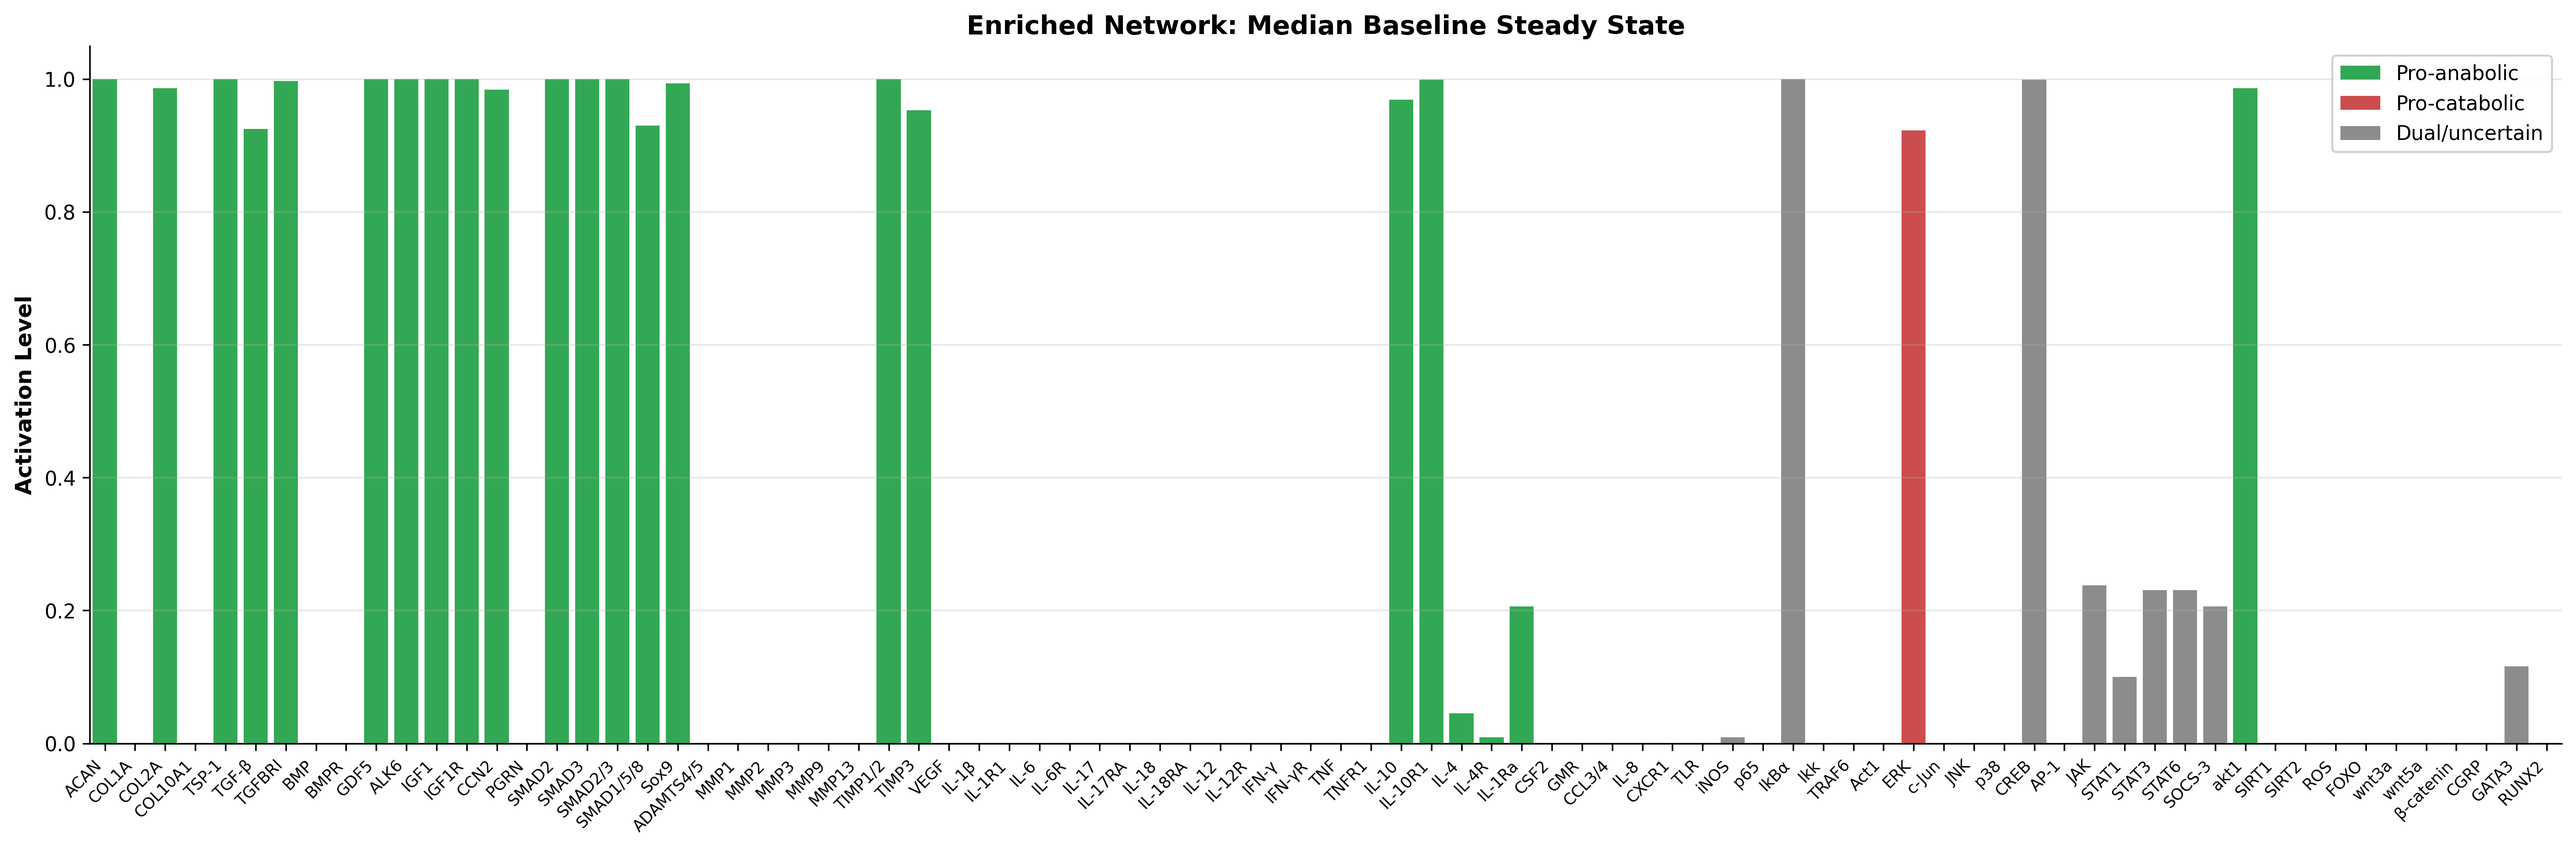
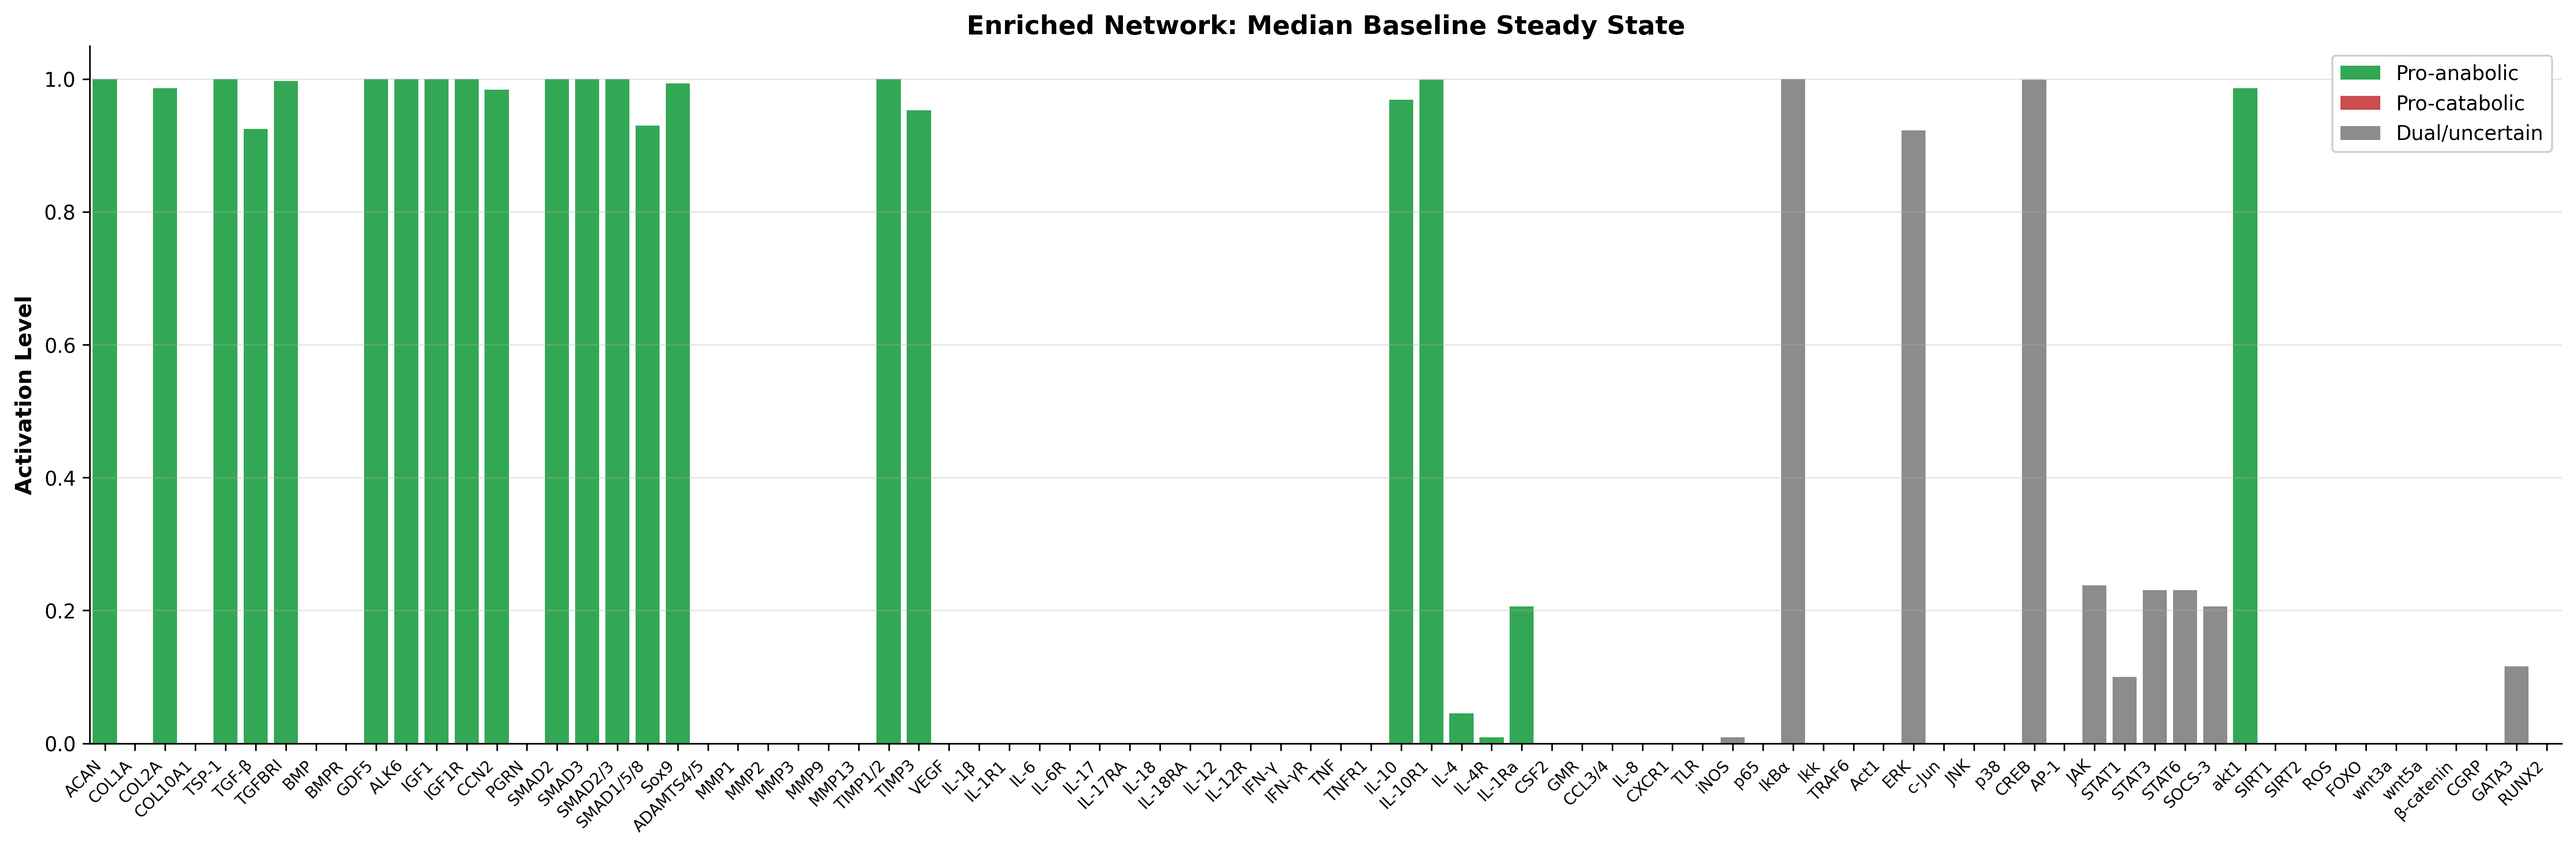
Add initial topology basal plot and fix ERK bar color to grey
- Run 200-run basal-only simulation on 66-node initial topology
  (results_initial/), generating the pre-enrichment bar chart (Fig. 4)
- Move ERK from catabolic (red) to dual/uncertain (grey) in the
  enriched basal bar chart per Sofia's feedback

Changed region(s): [[0.7153, 0.1553, 0.7464, 0.8696]]

diff --git a/rnm/visualization.py b/rnm/visualization.py
@@ -40,7 +40,7 @@ _CATABOLIC_NODES = {
     "IFN-\u03b3", "IL-8", "CSF2", "CGRP",
     "MMP1", "MMP2", "MMP3", "MMP9", "MMP13",
     "ADAMTS4/5", "VEGF", "COL1A", "COL10A1",
-    "p65", "p38", "JNK", "ERK",
+    "p65", "p38", "JNK",
     "\u03b2-catenin", "wnt3a", "wnt5a",
     "TLR", "TNFR1", "IL-1R1", "IL-6R", "IFN-\u03b3R",
     "IL-17RA", "IL-18RA", "CXCR1", "IL-12R",
